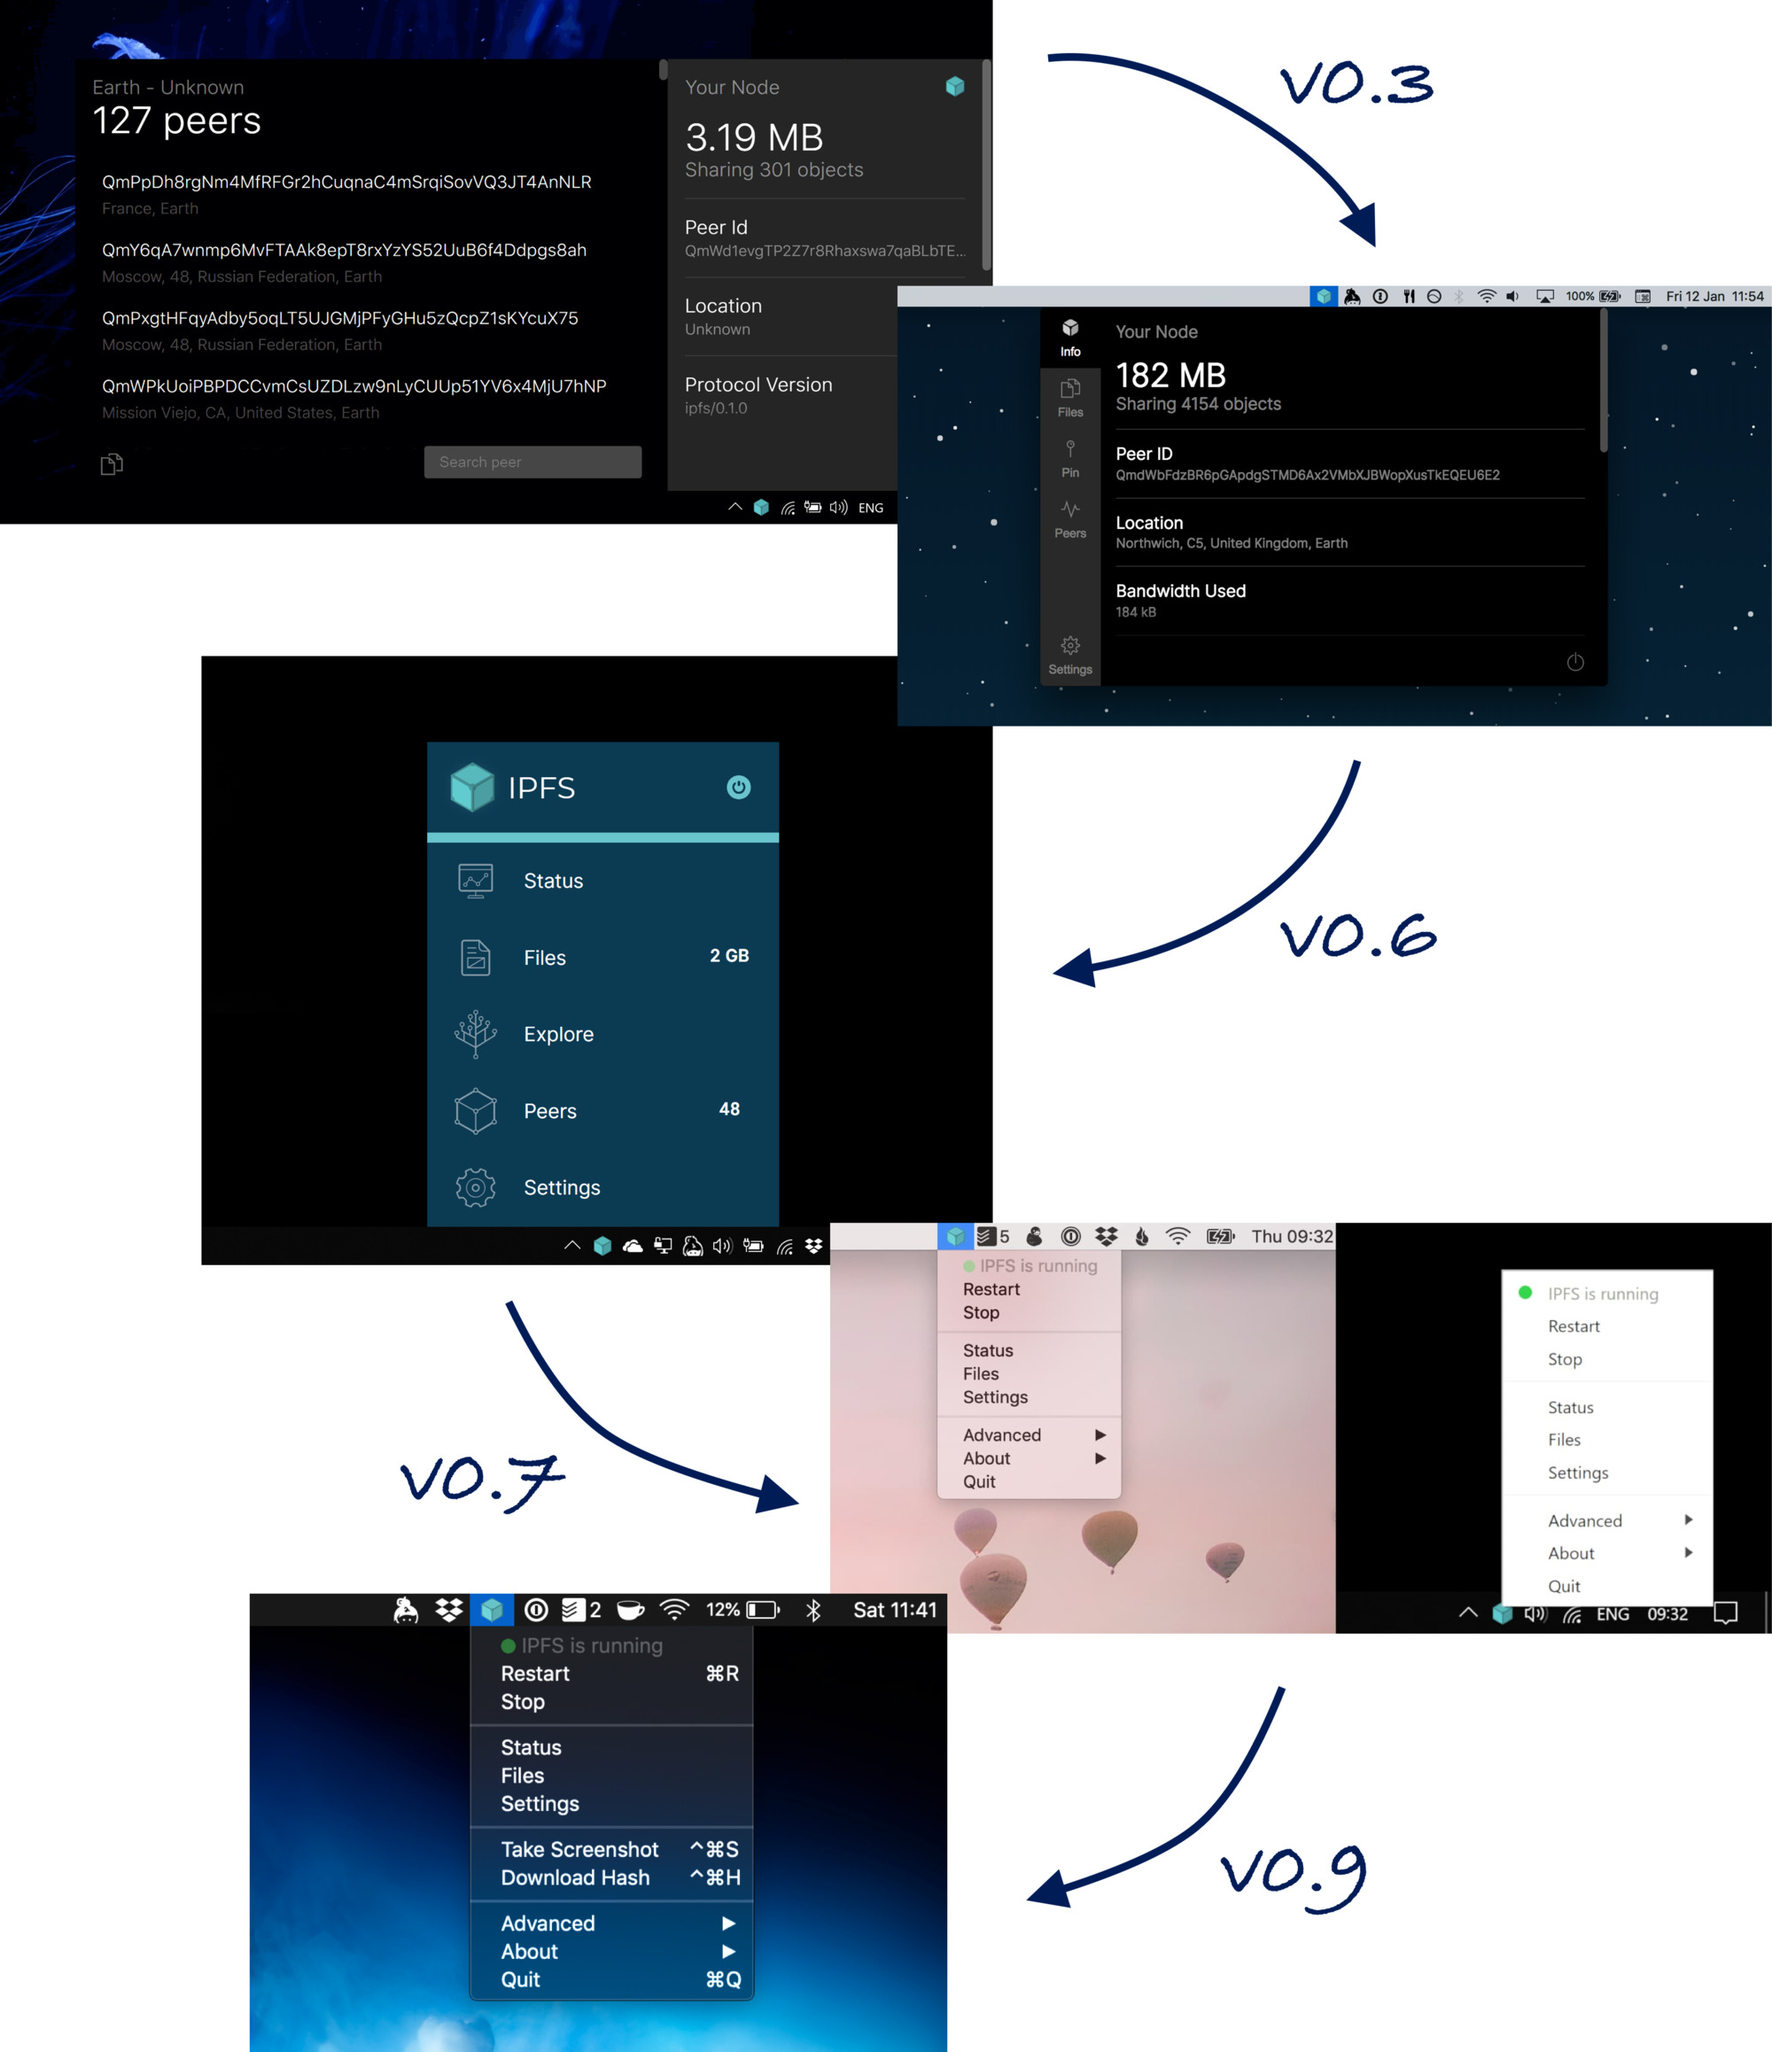
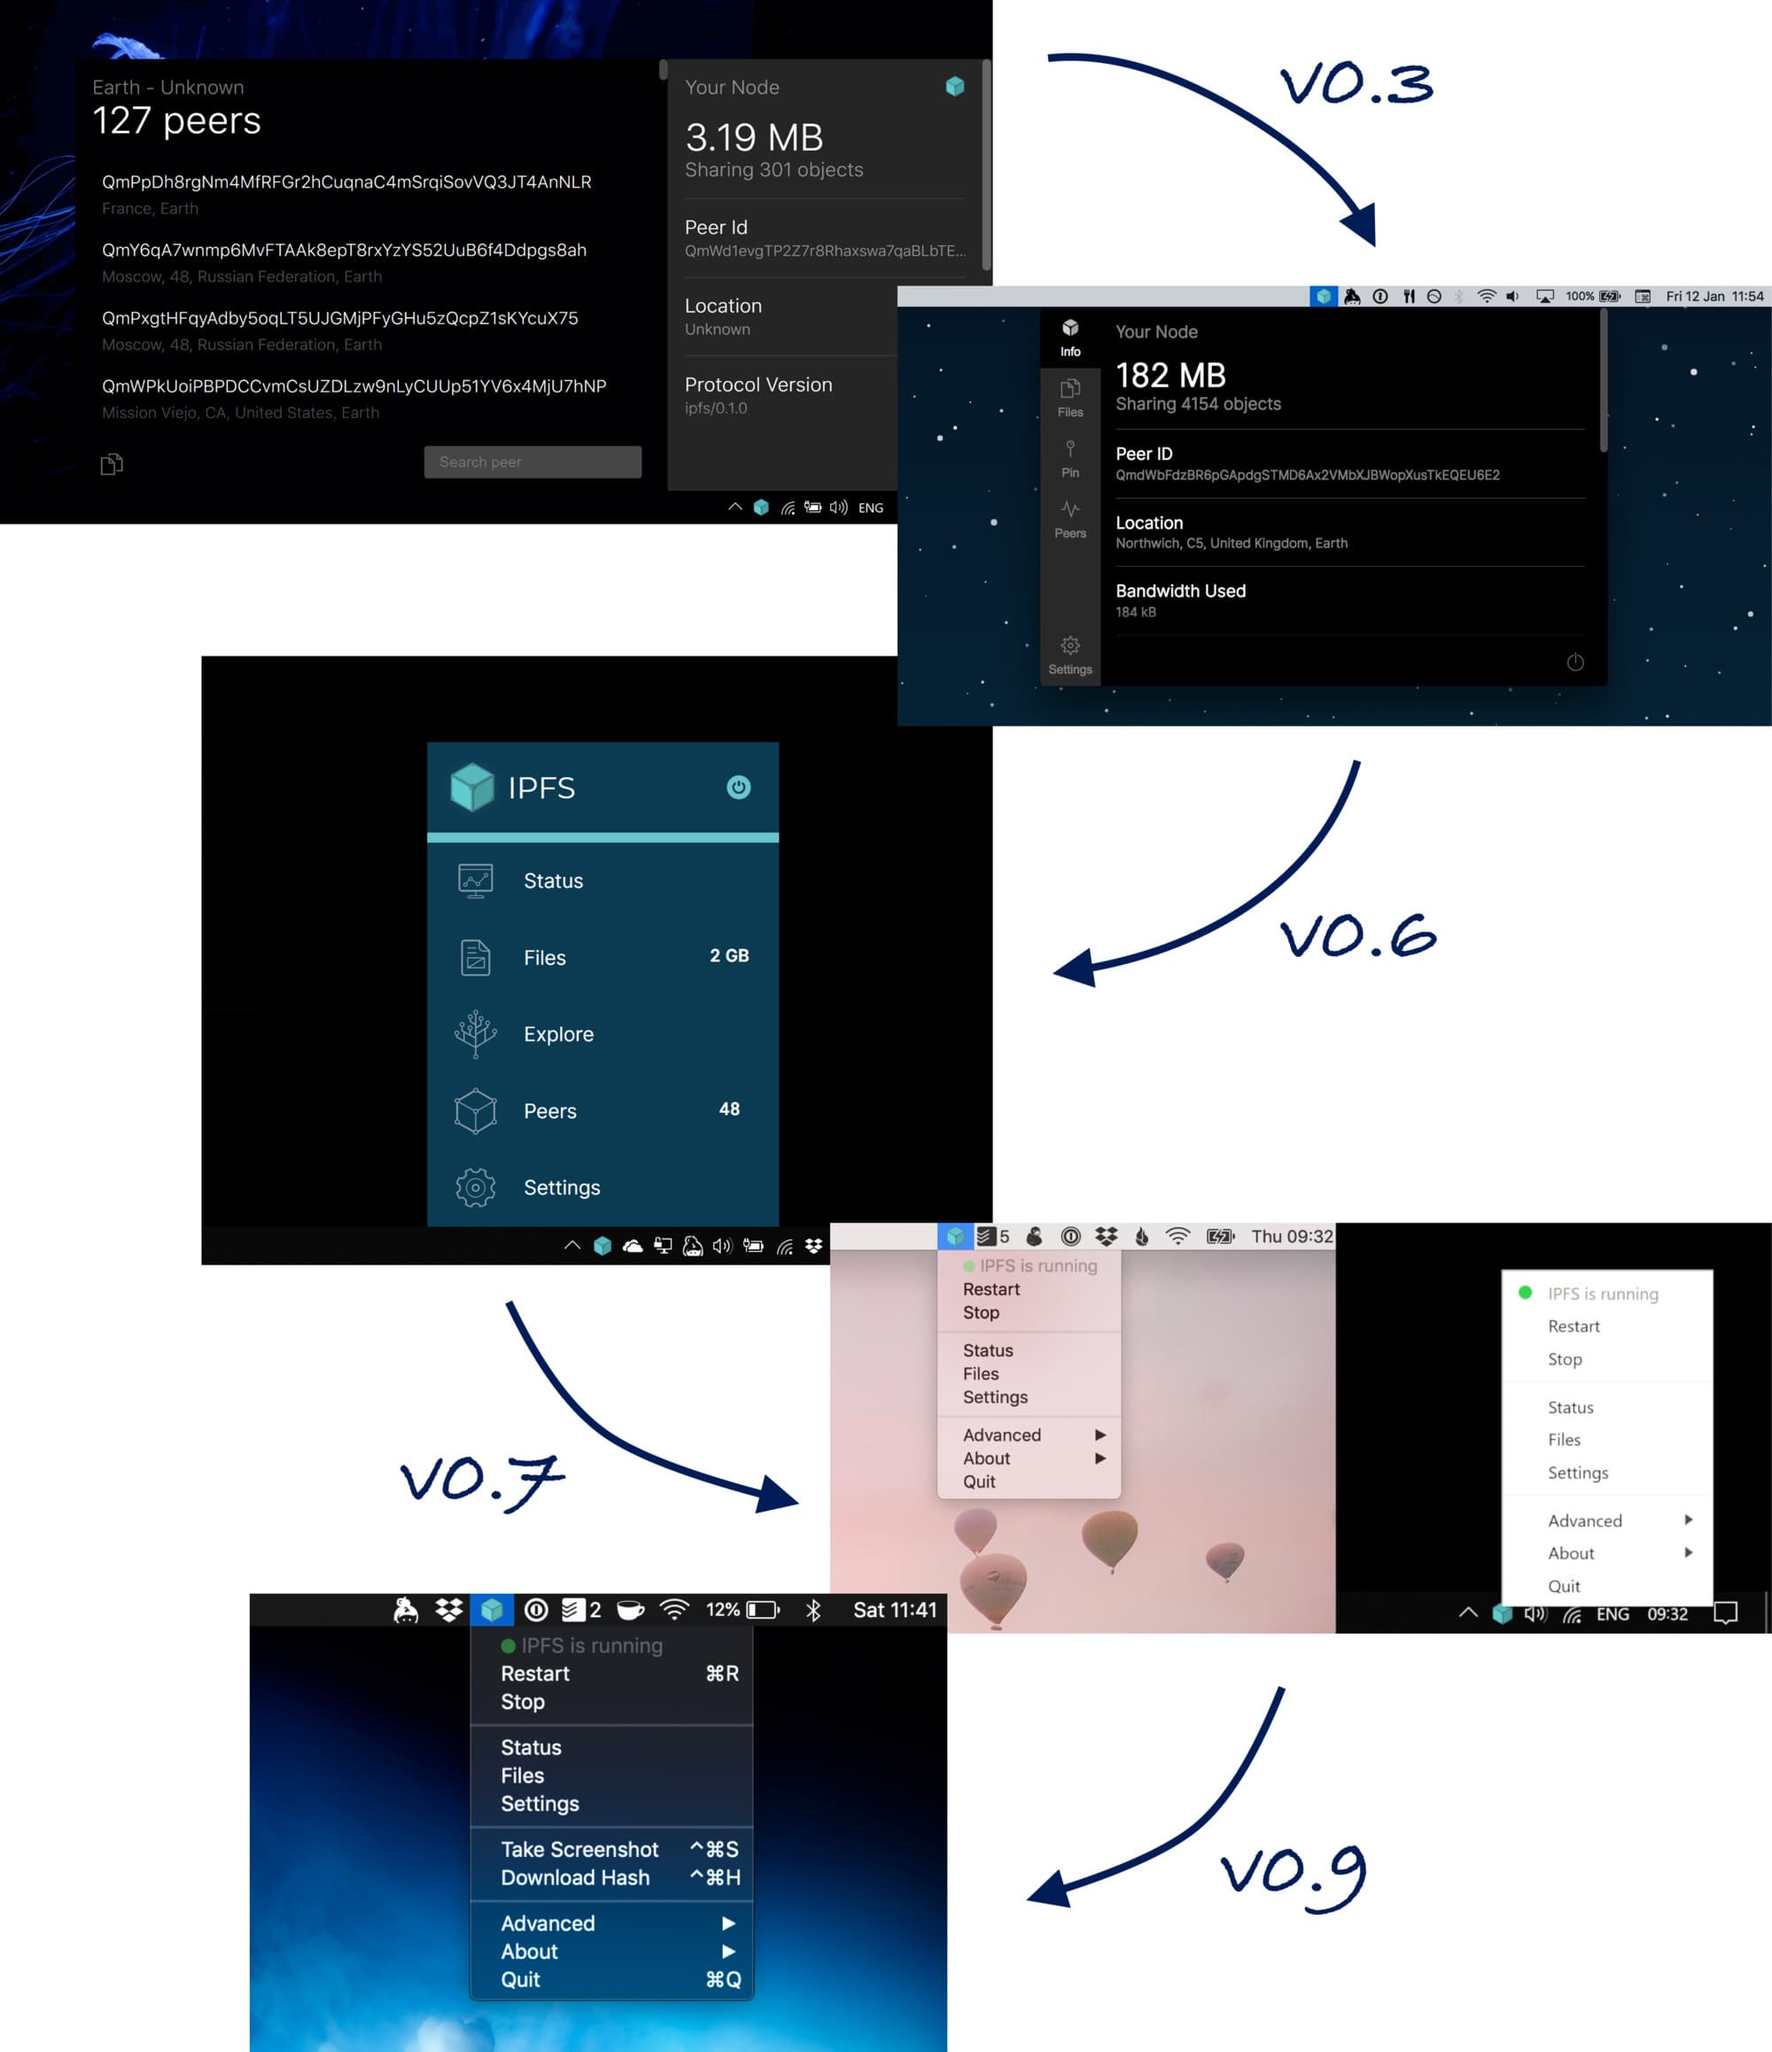
pngs to jpegs

diff --git a/content/post/057-ipfs-desktop-0-9.md b/content/post/057-ipfs-desktop-0-9.md
@@ -23,13 +23,13 @@ The newest version of IPFS Desktop, 0.9.2 - yes, we already released two patch v
 
 With the [recent update to the Web UI](https://github.com/ipfs-shipyard/ipfs-webui/releases/tag/v2.5.0), we are now capable of navigating through the whole IPFS system. Previously, you could only access your 'Files' (the contents of the [Mutable File System](https://proto.school/#/mutable-file-system)). Now, you can navigate not only to any `/ipfs/` or `/ipns/` path, but also any content [pinned](https://docs.ipfs.io/guides/concepts/pinning/) to your IPFS node!
 
-![Browsing /ipns/ipns.io](/057-ipfs-desktop-0-9/browse-wild.png)
+![Browsing /ipns/ipns.io](/057-ipfs-desktop-0-9/browse-wild.jpg)
 
 ### Use npm on ipfs
 
 In addition, we are introducing a new experiments section on the 'Settings' page which will allow you to enable new experimental features as they come in. To celebrate this new section, we are adding [npm on ipfs](https://github.com/ipfs-shipyard/npm-on-ipfs) to it! This is a project that allows you to use the `ipfs-npm` and `npm-ipfs` commands to install your Node.js modules through the IPFS network!
 
-![Experiments section](/057-ipfs-desktop-0-9/npm-ipfs.png)
+![Experiments section](/057-ipfs-desktop-0-9/npm-ipfs.jpg)
 
 **Please note** that this feature is intended for those who have [Node.js](https://nodejs.org) installed on their system. Moreover, the activation will only work if your setup does not require additional permissions for executing `npm install -g`.
 
@@ -37,7 +37,7 @@ In addition, we are introducing a new experiments section on the 'Settings' page
 
 Adding `ipfs` command line tools to your system was actually introduced in 0.8.0, but it's always worth noting that you are just a click away of having the `ipfs` command available from your command line! This way, you don't have to worry about configuring your `PATH` variable or doing other confusing stuff to start using all IPFS capabilities. Just go to Settings and enable "IPFS command line tools"!
 
-![IPFS command line tools](/057-ipfs-desktop-0-9/ipfs-cmd.png)
+![IPFS command line tools](/057-ipfs-desktop-0-9/ipfs-cmd.jpg)
 
 ### And more...
 
